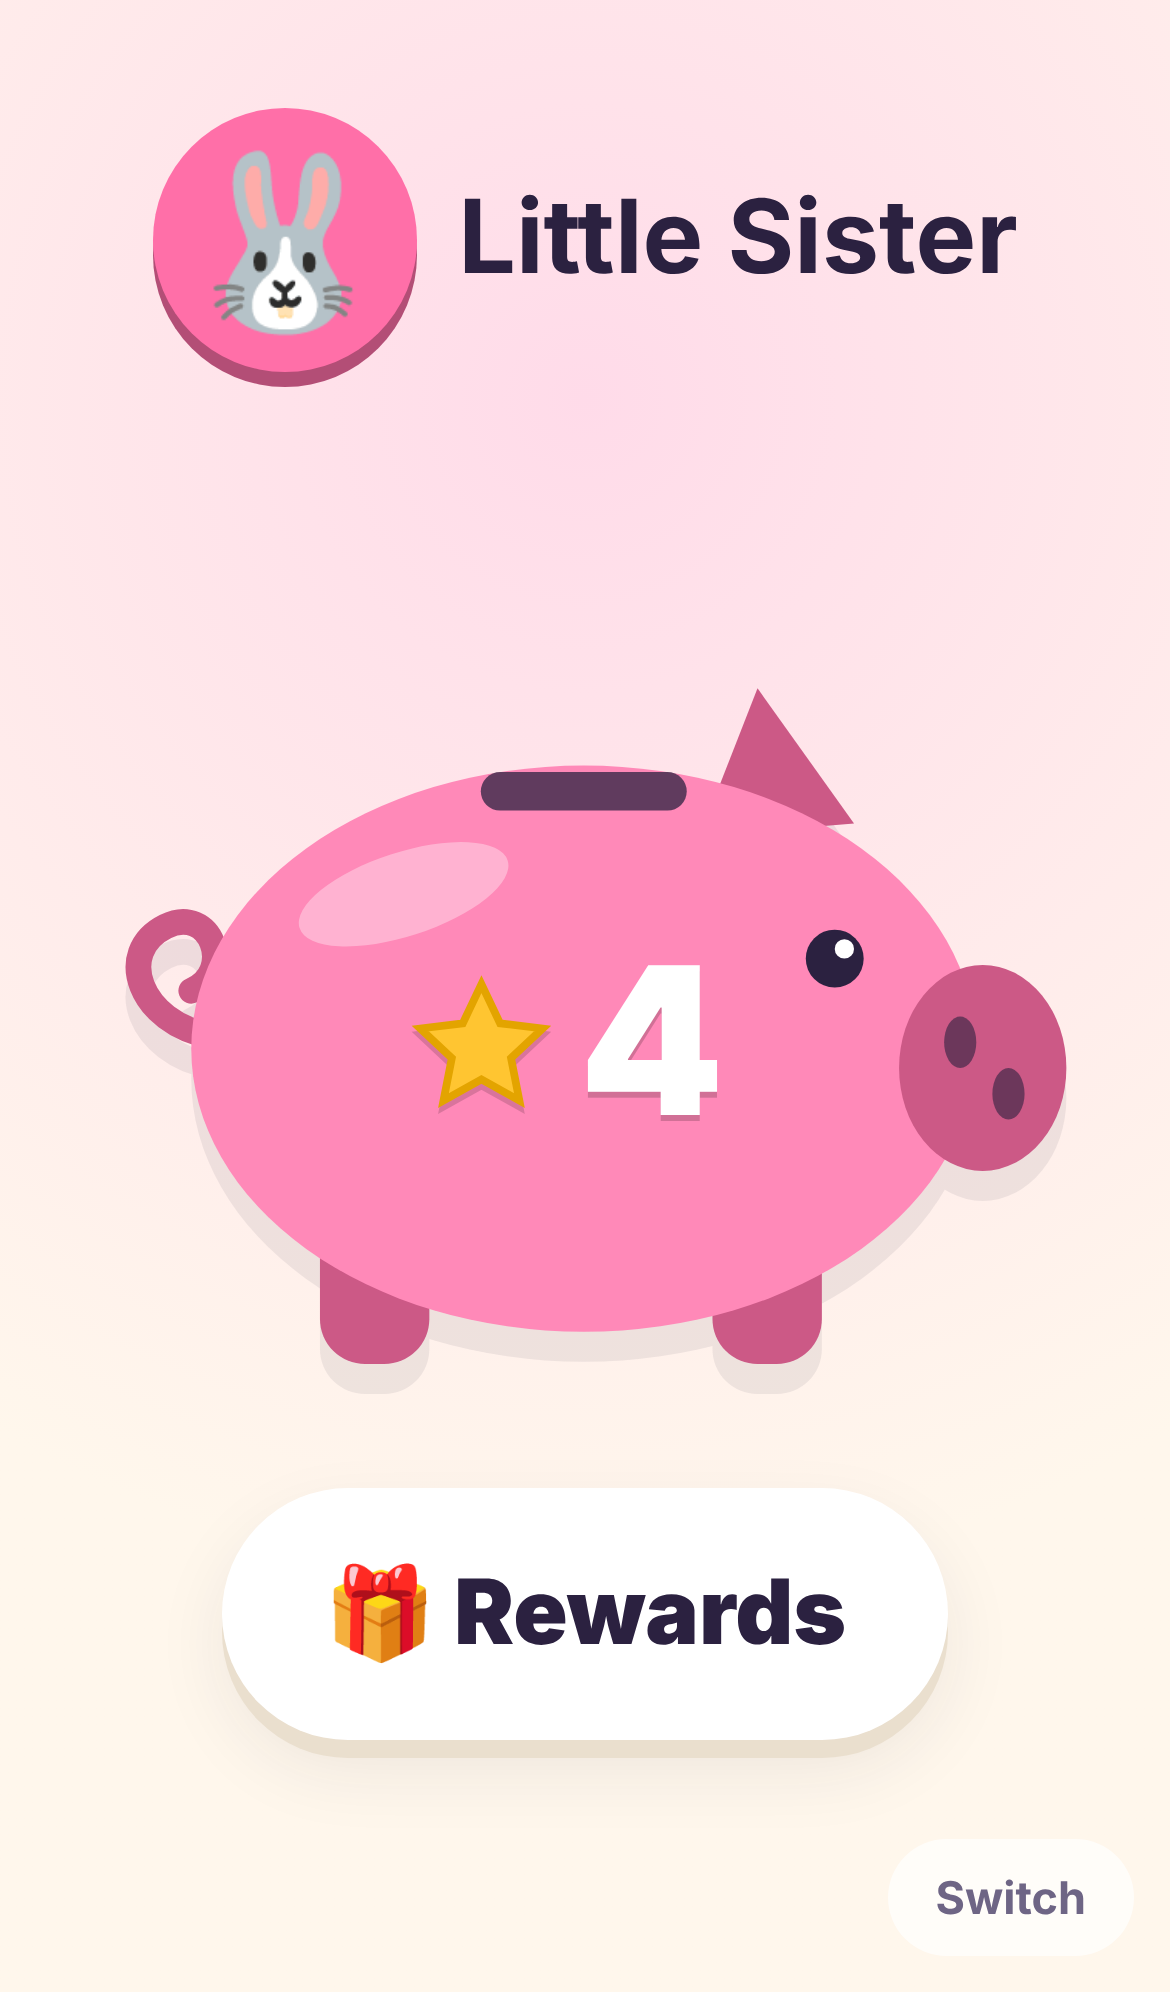
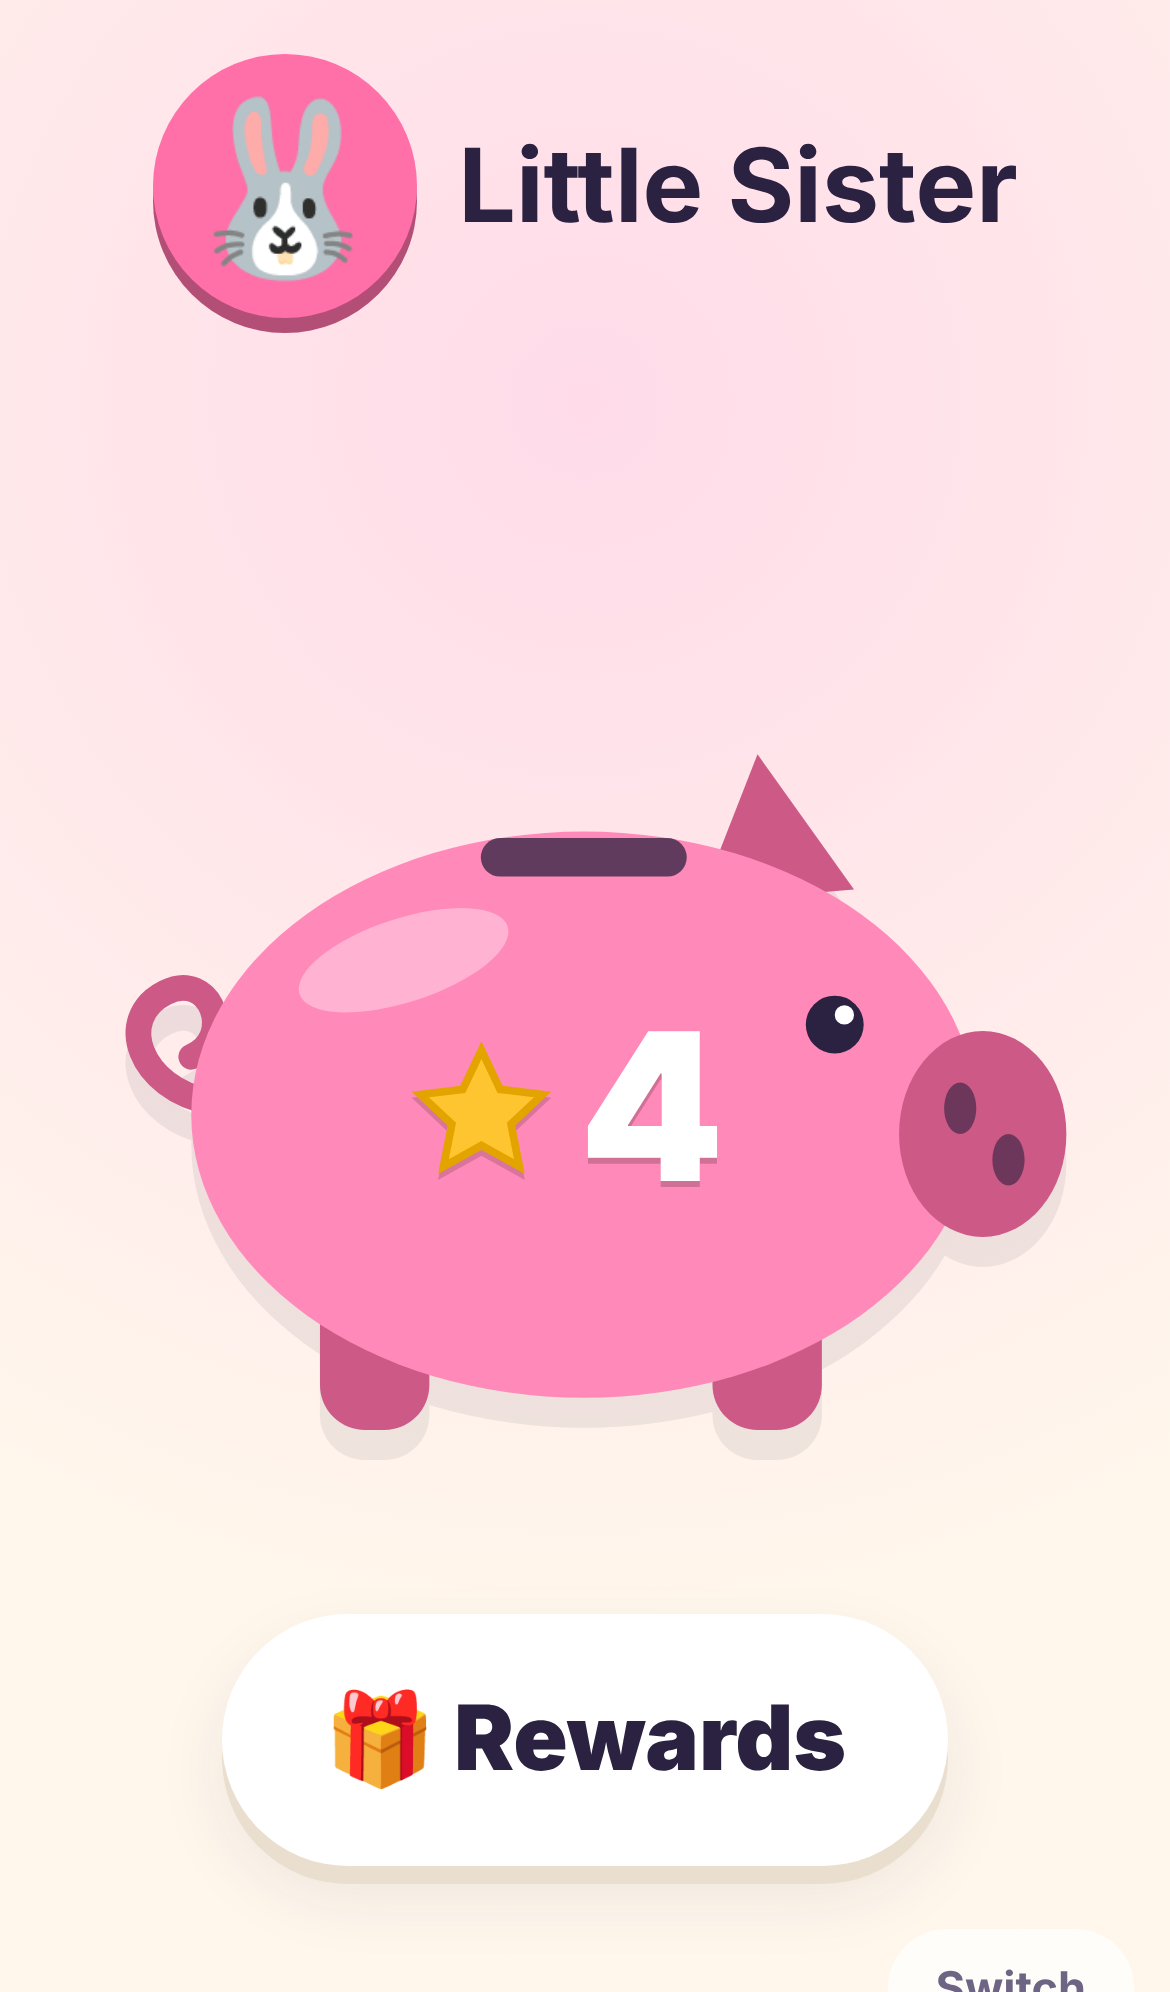
Home Dojo: cash in rewards with a grown-up's PIN
A girl taps Cash in on a reward she can afford; a parent approves by
typing their PIN on her screen. The stars come out of her piggy bank
(replayed as stars flying out of the slot), a celebration plays, and the
cash-in is logged with the approving parent's name. Also keeps the PIN
pad from being clipped on short phone screens.

Claude-Session: https://claude.ai/code/session_0197kJFDUtHryp17hep96iz5

diff --git a/home-dojo/public/app.js b/home-dojo/public/app.js
@@ -148,12 +148,13 @@ async function showLogin() {
   });
 }
 
-function showPinPad({ title, submit }) {
+function showPinPad({ title, subtitle = '', submit, onDone = boot, onBack = boot }) {
+  stopPolling(); // don't let a background refresh wipe the keypad
   let pin = '';
   const maxLen = 8;
   $app.innerHTML = `
     <section class="login">
-      <div class="brand"><h1 style="font-size:36px">${esc(title)}</h1></div>
+      <div class="brand"><h1 style="font-size:36px">${esc(title)}</h1>${subtitle ? `<p class="pin-sub">${subtitle}</p>` : ''}</div>
       <div class="pinpad">
         <div class="pin-dots" id="dots"></div>
         <div class="pin-error" id="pin-error"></div>
@@ -177,7 +178,7 @@ function showPinPad({ title, submit }) {
     if (pin.length < 4) return;
     try {
       await submit(pin);
-      boot();
+      onDone();
     } catch (err) {
       pin = '';
       draw();
@@ -193,7 +194,7 @@ function showPinPad({ title, submit }) {
   });
   $app.querySelector('[data-del]').onclick = () => { pin = pin.slice(0, -1); draw(); };
   $app.querySelector('[data-go]').onclick = go;
-  document.getElementById('back').onclick = boot;
+  document.getElementById('back').onclick = onBack;
 }
 
 async function logout() {
@@ -216,6 +217,8 @@ async function showKid() {
     await replay(unseen);
     api('/api/kid/seen', { method: 'POST', body: { logId: unseen.at(-1).id } }).catch(() => {});
     if (location.hash !== '#rewards') renderPiggy(kid, rewards);
+    const cashed = unseen.filter((u) => u.group === 'reward').at(-1);
+    if (cashed) celebrateReward(cashed.behavior);
   };
   window.onhashchange = () => render().catch(handleAuthError);
   await render();
@@ -265,7 +268,8 @@ function renderKidRewards(kid, rewards) {
             <span class="reward-name">${esc(r.name)}</span>
             <span class="price">${starSvg('star on')}<b>${r.threshold}</b></span>
             ${ok
-              ? '<span class="reward-status">🎉 You have enough!</span>'
+              ? `<span class="reward-status">🎉 You have enough!</span>
+                 <button class="cash-btn" data-cash="${r.id}">Cash in ${starSvg('star on')}</button>`
               : `<span class="reward-status">${barHtml(kid.score / r.threshold)}<small>${r.threshold - kid.score} more</small></span>`}
           </li>`;
       }).join('')}</ul>`
@@ -274,7 +278,39 @@ function renderKidRewards(kid, rewards) {
       <button class="corner-btn" id="switch">Switch</button>
     </section>`;
   document.getElementById('switch').onclick = logout;
+  $app.querySelectorAll('[data-cash]').forEach((btn) => {
+    btn.onclick = () => askGrownUp(sorted.find((r) => r.id === Number(btn.dataset.cash)));
+  });
   document.getElementById('to-piggy').onclick = () => { history.length > 1 && location.hash ? history.back() : (location.hash = ''); };
+}
+
+/** A grown-up approves a cash-in by typing their PIN on the girl's screen. */
+function askGrownUp(reward) {
+  showPinPad({
+    title: reward.name,
+    subtitle: `${starSvg('star on')} <b>${reward.threshold}</b> stars<br>Ask a grown-up to type their PIN`,
+    submit: (pin) => api('/api/kid/cash-in', { method: 'POST', body: { rewardId: reward.id, pin } }),
+    // back to the piggy bank, where the stars fly out and the party starts
+    onDone: () => { history.replaceState(null, '', location.pathname); boot(); },
+    onBack: () => { location.hash = 'rewards'; boot(); },
+  });
+}
+
+function celebrateReward(name) {
+  const el = document.createElement('div');
+  el.className = 'party';
+  el.innerHTML = `<div class="party-card"><div class="party-gift">🎁</div><p>Enjoy your</p><h2>${esc(name)}!</h2></div>`;
+  for (let i = 0; i < 24; i++) {
+    const c = document.createElement('span');
+    c.className = 'confetti';
+    c.textContent = ['🎉', '⭐', '✨', '🎊'][i % 4];
+    c.style.left = `${(i * 41) % 100}%`;
+    c.style.animationDelay = `${(i % 8) * 0.12}s`;
+    el.appendChild(c);
+  }
+  el.onclick = () => el.remove();
+  document.body.appendChild(el);
+  setTimeout(() => el.remove(), 4500);
 }
 
 function wiggle(el) {
@@ -318,7 +354,7 @@ async function replay(entries) {
       void caption.offsetWidth;
       caption.classList.add('show');
 
-      const n = Math.min(Math.abs(e.applied), 3);
+      const n = Math.min(Math.abs(e.applied), e.group === 'reward' ? 6 : 3);
       for (let i = 0; i < n; i++) {
         const d = document.createElement('span');
         d.className = up ? 'drop' : 'lift';
@@ -449,11 +485,12 @@ function logItemHtml(e) {
   const cls = e.applied > 0 ? 'up' : e.applied < 0 ? 'down' : 'zero';
   const sign = e.applied > 0 ? `+${e.applied}` : e.applied === 0 ? '0' : String(e.applied).replace('-', '−');
   const note = e.applied !== e.requested ? ' (already at 0)' : '';
+  const what = esc(e.behavior);
   return `
     <li>
       <span class="delta ${cls}">${sign}</span>
-      <span class="what">${esc(e.kidName)} · ${esc(e.behavior)}${note}
-        <small>${GROUPS[e.group]?.label || esc(e.group)} · by ${esc(e.parent)} · now ${e.score}</small></span>
+      <span class="what">${esc(e.kidName)} · ${what}${note}
+        <small>${e.group === 'reward' ? '🎁 Cashed in' : GROUPS[e.group]?.label || esc(e.group)} · ${e.group === 'reward' ? 'approved' : 'by'} ${esc(e.parent)} · now ${e.score}</small></span>
       <time datetime="${esc(e.createdAt)}" title="${esc(new Date(e.createdAt).toLocaleString())}">${timeAgo(e.createdAt)}</time>
     </li>`;
 }

diff --git a/home-dojo/src/db.js b/home-dojo/src/db.js
@@ -160,6 +160,34 @@ function applyPoints(db, { kidId, behaviorId, direction, parent }) {
   });
 }
 
+/**
+ * Spend stars on a reward. A grown-up has already approved it (the caller
+ * checked their PIN); the girl must have enough stars. Logged like any change.
+ */
+function cashIn(db, { kidId, rewardId, parent }) {
+  return tx(db, () => {
+    const kid = db.prepare('SELECT id, name, score FROM kids WHERE id = ?').get(kidId);
+    if (!kid) throw httpError(404, 'Unknown daughter');
+    const r = db.prepare('SELECT id, name, threshold FROM rewards WHERE id = ?').get(rewardId);
+    if (!r) throw httpError(404, 'That reward is gone');
+    if (kid.score < r.threshold) throw httpError(400, 'Not enough stars yet');
+
+    const newScore = kid.score - r.threshold;
+    const createdAt = new Date().toISOString();
+    db.prepare('UPDATE kids SET score = ? WHERE id = ?').run(newScore, kid.id);
+    const res = db.prepare(`
+      INSERT INTO score_log (created_at, kid_id, kid_name, behavior_id, behavior_label, behavior_group,
+                             parent, requested_delta, applied_delta, score_after)
+      VALUES (?, ?, ?, NULL, ?, 'reward', ?, ?, ?, ?)`)
+      .run(createdAt, kid.id, kid.name, r.name, parent, -r.threshold, -r.threshold, newScore);
+
+    return {
+      id: Number(res.lastInsertRowid), createdAt, kidId: kid.id, kidName: kid.name,
+      behavior: r.name, group: 'reward', parent, requested: -r.threshold, applied: -r.threshold, score: newScore,
+    };
+  });
+}
+
 function getLog(db, limit = 50) {
   return db.prepare(`
     SELECT id, created_at AS createdAt, kid_id AS kidId, kid_name AS kidName,
@@ -175,7 +203,8 @@ function getLog(db, limit = 50) {
 function getUnseen(db, kidId, limit = 20) {
   return db.prepare(`
     SELECT l.id, l.applied_delta AS applied, l.score_after AS score, l.behavior_label AS behavior,
-           l.behavior_group AS "group", COALESCE(b.emoji, '') AS emoji
+           l.behavior_group AS "group",
+           CASE WHEN l.behavior_group = 'reward' THEN '🎁' ELSE COALESCE(b.emoji, '') END AS emoji
     FROM score_log l
     JOIN kids k ON k.id = l.kid_id
     LEFT JOIN behaviors b ON b.id = l.behavior_id
@@ -199,5 +228,5 @@ function httpError(status, message) {
 
 module.exports = {
   openDb, syncKids, getKids, getKid, getBehaviors, getRewards, addReward, deleteReward,
-  applyPoints, getLog, getUnseen, markSeen, httpError,
+  applyPoints, cashIn, getLog, getUnseen, markSeen, httpError,
 };

diff --git a/home-dojo/public/styles.css b/home-dojo/public/styles.css
@@ -229,3 +229,27 @@ h1, h2, h3, p { margin: 0; }
 @keyframes nudge { 25% { transform: translateX(-2%); } 75% { transform: translateX(2%); } }
 @keyframes countbump { 50% { transform: scale(1.25); } }
 @keyframes wiggle { 20% { transform: rotate(-5deg); } 40% { transform: rotate(4deg); } 60% { transform: rotate(-3deg); } 80% { transform: rotate(2deg); } }
+
+/* ---------- cash in ---------- */
+.pin-sub { font-size: 22px; font-weight: 700; color: var(--muted); margin-top: 8px; line-height: 1.5; --star-size: 26px; }
+.pin-sub .star { vertical-align: -4px; }
+.cash-btn { grid-column: 1 / -1; justify-self: stretch; border: 0; border-radius: 20px; min-height: 64px; background: var(--plus); color: #fff; font-size: 26px; font-weight: 900; display: inline-flex; align-items: center; justify-content: center; gap: 10px; box-shadow: 0 5px 0 #168a60; --star-size: 30px; }
+.cash-btn:active { transform: translateY(4px); box-shadow: none; }
+.party { position: fixed; inset: 0; z-index: 50; display: grid; place-items: center; background: rgba(43,33,64,.35); overflow: hidden; animation: fade .2s; }
+.party-card { background: var(--card); border-radius: 36px; padding: 32px 40px; text-align: center; box-shadow: var(--shadow); animation: pop-in .5s cubic-bezier(.2,1.4,.4,1); max-width: calc(100% - 32px); }
+.party-gift { font-size: 96px; line-height: 1; animation: wiggle .8s ease-in-out .4s 2; }
+.party-card p { font-size: 24px; font-weight: 800; color: var(--muted); margin-top: 10px; }
+.party-card h2 { font-size: clamp(30px, 8vw, 48px); font-weight: 900; }
+.confetti { position: absolute; top: -10%; font-size: 36px; animation: fall 2.6s ease-in forwards; }
+@keyframes pop-in { from { transform: scale(.3); opacity: 0; } }
+@keyframes fall { to { transform: translateY(120vh) rotate(540deg); } }
+
+/* keep tall screens (PIN pad on a phone) scrollable from the top instead of clipped */
+.login { justify-content: flex-start; }
+.login > :first-child { margin-top: auto; }
+.login > :last-child { margin-bottom: auto; }
+@media (max-height: 760px) {
+  .login { gap: 16px; }
+  .keys { grid-template-columns: repeat(3, 76px); gap: 12px; }
+  .keys button { height: 76px; font-size: 30px; }
+}

diff --git a/home-dojo/test/server.test.js b/home-dojo/test/server.test.js
@@ -134,6 +134,30 @@ test('rewards can be added with a threshold and removed', async () => {
   assert.deepEqual(del.data.rewards, []);
 });
 
+test('cashing in needs a grown-up PIN and enough stars, then takes the stars and logs it', async () => {
+  const mom = await login('1111');
+  const kid = (await call('/api/login/kid', { method: 'POST', body: { kidId: 2 } })).cookie;
+  const { data: d } = await call('/api/dashboard', { cookie: mom });
+  const b = d.behaviors[0];
+  const start = d.kids.find((k) => k.id === 2).score;
+  for (let i = 0; i < 4; i++) await call('/api/points', { method: 'POST', cookie: mom, body: { kidId: 2, behaviorId: b.id, direction: 1 } });
+  const cheap = (await call('/api/rewards', { method: 'POST', cookie: mom, body: { name: 'Sticker', threshold: 3 } })).data.rewards.find((r) => r.name === 'Sticker');
+  const pricey = (await call('/api/rewards', { method: 'POST', cookie: mom, body: { name: 'Zoo', threshold: 999 } })).data.rewards.find((r) => r.name === 'Zoo');
+  const cash = (rewardId, pin, cookie = kid) => call('/api/kid/cash-in', { method: 'POST', cookie, body: { rewardId, pin } });
+
+  assert.equal((await cash(cheap.id, '0000')).status, 401); // kid can't approve herself
+  assert.equal((await cash(cheap.id, '2222', mom)).status, 401); // only from a kid's screen
+  assert.equal((await cash(pricey.id, '2222')).status, 400); // not enough stars
+  const ok = await cash(cheap.id, '2222');
+  assert.equal(ok.status, 200);
+  assert.deepEqual([ok.data.entry.parent, ok.data.entry.behavior, ok.data.entry.group, ok.data.entry.applied, ok.data.entry.score],
+    ['Dad', 'Sticker', 'reward', -3, start + 4 - 3]);
+  assert.equal((await call('/api/kid', { cookie: kid })).data.kid.score, start + 1);
+  const log = (await call('/api/log', { cookie: mom })).data.log;
+  assert.equal(log[0].id, ok.data.entry.id);
+  assert.equal((await call('/api/kid', { cookie: kid })).data.unseen.at(-1).emoji, '🎁');
+});
+
 test('mutations without the app header are rejected', async () => {
   const r = await call('/api/login/parent', { method: 'POST', body: { pin: '1111' }, csrf: false });
   assert.equal(r.status, 403);

diff --git a/home-dojo/src/server.js b/home-dojo/src/server.js
@@ -211,6 +211,22 @@ function createApp(config, db) {
         return send(res, 200, out);
       }
 
+      case 'POST /api/kid/cash-in': {
+        // The girl asks on her own screen; a grown-up approves by typing their PIN there.
+        if (s?.role !== 'kid') throw httpError(401, 'Kid login required');
+        const ip = clientIp(req);
+        checkLock(ip);
+        const { rewardId, pin } = await readJson(req);
+        const parent = config.parents.find((p) => pinEquals(p.pin, pin ?? ''));
+        if (!parent) {
+          recordFail(ip);
+          throw httpError(401, 'That PIN didn\u2019t match');
+        }
+        failures.delete(ip);
+        const entry = store.cashIn(db, { kidId: s.kidId, rewardId: Number(rewardId), parent: parent.name });
+        return send(res, 200, { entry });
+      }
+
       case 'POST /api/kid/seen': {
         if (s?.role !== 'kid') throw httpError(401, 'Kid login required');
         const { logId } = await readJson(req);

diff --git a/home-dojo/public/sw.js b/home-dojo/public/sw.js
@@ -1,6 +1,6 @@
 // Caches the app shell so it opens instantly from the home screen.
 // Scores always come live from the server (API requests are never cached).
-const CACHE = 'home-dojo-v3';
+const CACHE = 'home-dojo-v4';
 const SHELL = ['/', '/index.html', '/styles.css', '/app.js', '/manifest.webmanifest', '/icons/icon.svg'];
 
 self.addEventListener('install', (e) => {

diff --git a/home-dojo/README.md b/home-dojo/README.md
@@ -6,7 +6,7 @@ A family points app for two daughters. It installs to the home screen on iPads a
 - **Parents:** two PINs (mom and dad), set as environment variables. Every change is logged with the parent's name.
 - **Kids:** each daughter has her own login (tap her picture, or a PIN if you set one). She sees only her own piggy bank, in her color, with her star count on its side. Each time she opens the app, it replays every change since she last looked, oldest first: stars drop into the slot for a plus and fly out for a minus, the behavior's picture (and name, for the older girl) shows above the pig, and the number on its side counts along. Changes that come in while she's watching play the same way. Tapping the pig skips to the end. What she has seen is remembered on the server, so switching devices doesn't replay it again. Kids get no edit controls, and the server rejects edits from a kid login.
 - **Scoring:** behaviors are grouped as Kind, Helping and Listening, and each one has a + and a − button. Scores never go below 0. Every tap is logged with the time, behavior, daughter and parent, including a minus at 0 (logged as "already at 0").
-- **Rewards:** the list starts empty. Parents add rewards with a star price on the dashboard. Each girl has a Rewards page listing every reward with its star price, which ones she already has enough for, and how many more she needs for the rest. Cashing stars in isn't built yet: a girl's stars only go down when a parent taps a −.
+- **Rewards:** the list starts empty. Parents add rewards with a star price on the dashboard. Each girl has a Rewards page listing every reward with its star price, which ones she already has enough for, and how many more she needs for the rest. When she has enough for a reward, she taps **Cash in** on it, and a grown-up approves by typing their PIN on her screen. The stars fly out of her piggy bank and a celebration plays. The cash-in is logged with the approving parent's name, and the log shows it as 🎁 Cashed in.
 
 <p>
   <img src="docs/screenshots/2-parent-dashboard-ipad.png" alt="Parent dashboard on iPad" width="360">
@@ -63,6 +63,6 @@ The default behaviors (three per group, 1 point each) are created in the `behavi
 
 ## API (all JSON)
 
-`GET /api/me` · `GET /api/login-options` · `POST /api/login/parent {pin}` · `POST /api/login/kid {kidId, pin?}` · `POST /api/logout` · `GET /api/kid` · parent only: `GET /api/dashboard`, `GET /api/log?limit=`, `POST /api/points {kidId, behaviorId, direction: 1|-1}`, `POST /api/rewards {name, threshold}`, `DELETE /api/rewards/:id`.
+`GET /api/me` · `GET /api/login-options` · `POST /api/login/parent {pin}` · `POST /api/login/kid {kidId, pin?}` · `POST /api/logout` · `GET /api/kid` · kid only: `POST /api/kid/seen {logId}`, `POST /api/kid/cash-in {rewardId, pin}` (pin = a parent's PIN) · parent only: `GET /api/dashboard`, `GET /api/log?limit=`, `POST /api/points {kidId, behaviorId, direction: 1|-1}`, `POST /api/rewards {name, threshold}`, `DELETE /api/rewards/:id`.
 
 Requests that change data must send the header `X-Requested-With: home-dojo`. After 5 wrong PINs, that device is locked out for 1 minute.
